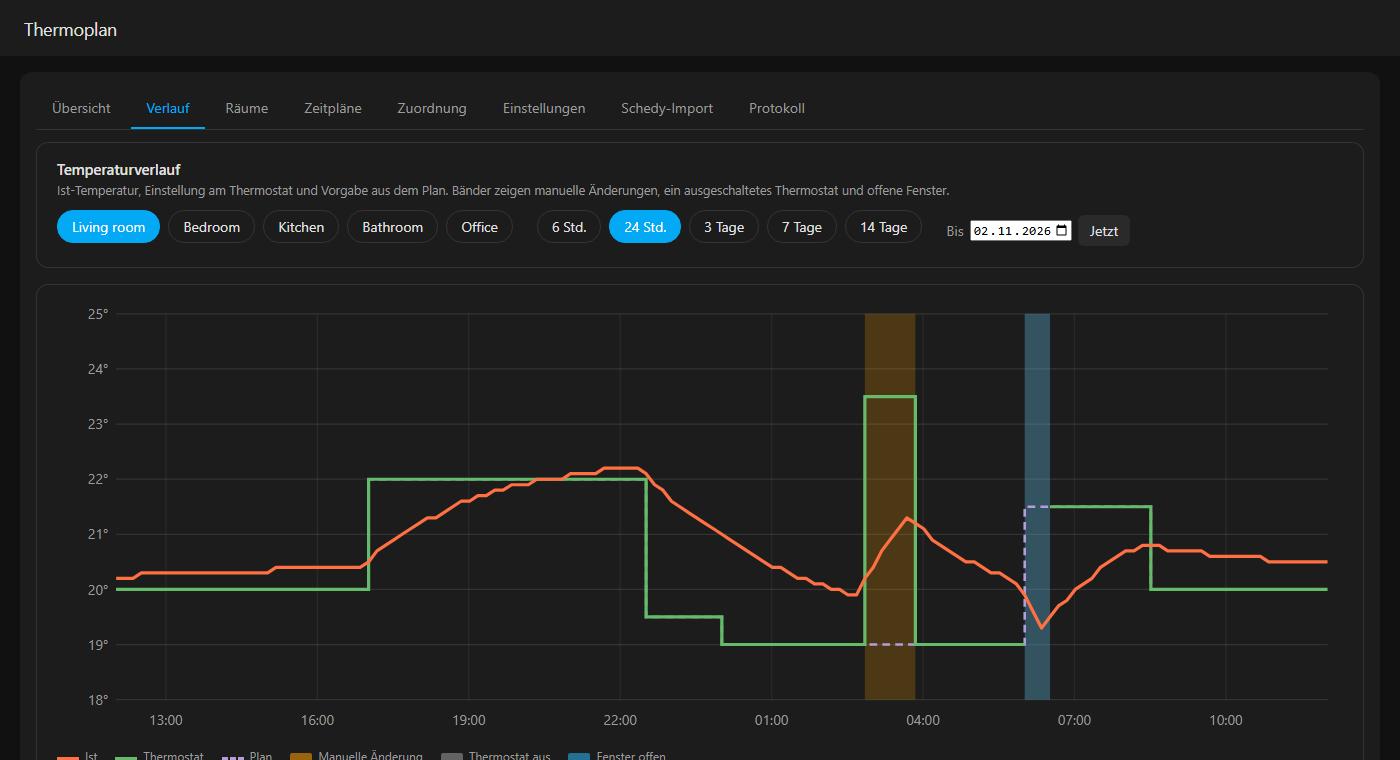
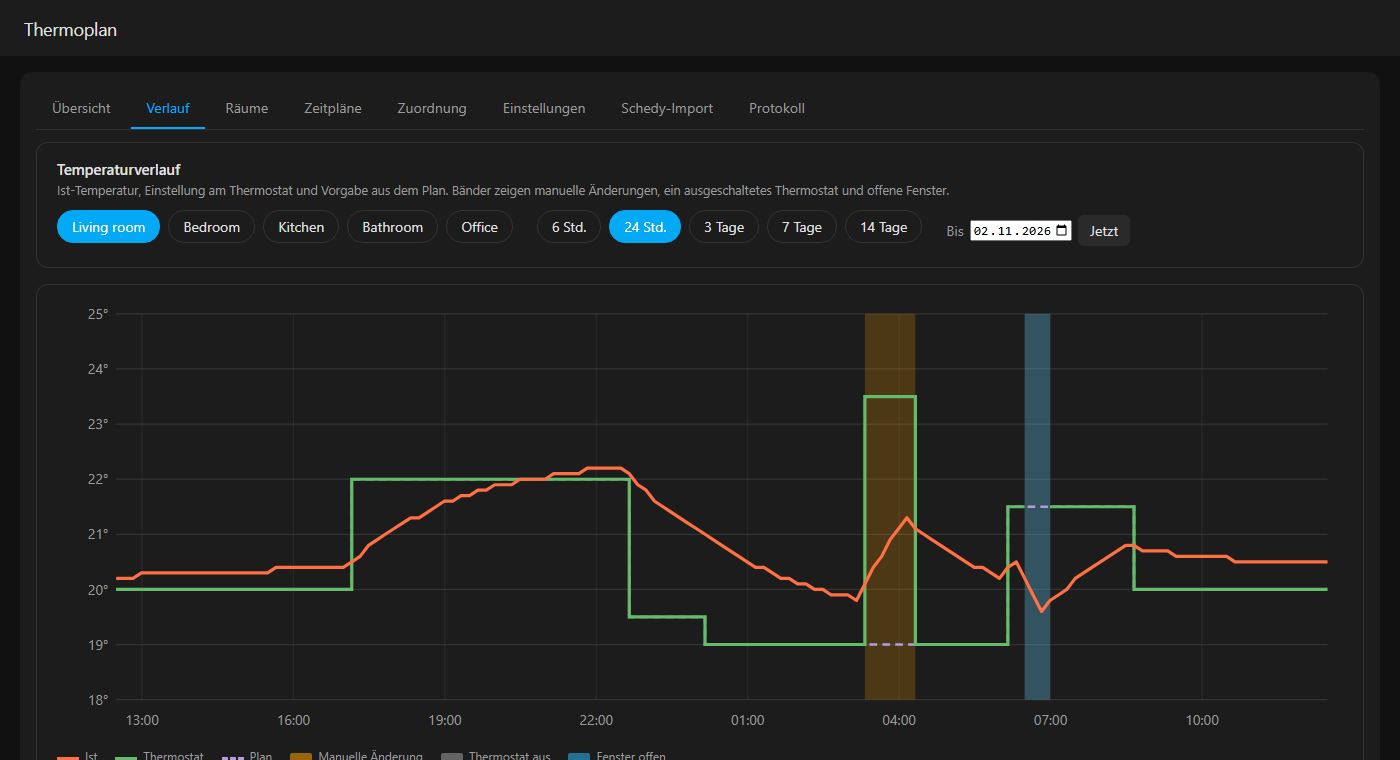
Table time edits trim overlapped neighbours and block saving when a block is covered; log user edits; reload the log tab when opened

diff --git a/custom_components/thermoplan/frontend/thermoplan-schedule-editor.js b/custom_components/thermoplan/frontend/thermoplan-schedule-editor.js
@@ -14,7 +14,7 @@ addStrings(
     se_time_hint: "Type times as 7, 7:30 or 0730. An end at or before the start means the next day (22:00 to 01:00); 00:00 as end means midnight.",
     se_copy_to: "Copy this day to", se_copy: "Copy", se_weekdays: "Mon-Fri", se_all_days: "All days",
     se_valid: "Schedule is valid.", se_problems: "Problems", se_no_free: "has no free time left for another block.",
-    se_invalid: "invalid block", se_overlap: "overlap", se_no_blocks: "No blocks on this day.",
+    se_invalid: "empty or covered by another block", se_overlap: "overlap", se_no_blocks: "No blocks on this day.",
     se_add_on: "Add a block on", se_continues: "Continues from", se_until: "until", se_ext: "Drag to continue the block past midnight",
     se_spill_hint: "Drag to move, drag the right edge to change the end.",
   },
@@ -27,7 +27,7 @@ addStrings(
     se_time_hint: "Zeiten als 7, 7:30 oder 0730 eingeben. Ein Ende zur oder vor der Startzeit bedeutet den nächsten Tag (22:00 bis 01:00); 00:00 als Ende bedeutet Mitternacht.",
     se_copy_to: "Diesen Tag kopieren nach", se_copy: "Kopieren", se_weekdays: "Mo-Fr", se_all_days: "Alle Tage",
     se_valid: "Zeitplan ist gültig.", se_problems: "Probleme", se_no_free: "hat keine freie Zeit mehr für einen weiteren Block.",
-    se_invalid: "ungültiger Block", se_overlap: "überschneiden sich", se_no_blocks: "Keine Blöcke an diesem Tag.",
+    se_invalid: "leer oder von einem anderen Block verdeckt", se_overlap: "überschneiden sich", se_no_blocks: "Keine Blöcke an diesem Tag.",
     se_add_on: "Block hinzufügen am", se_continues: "Fortsetzung von", se_until: "bis", se_ext: "Ziehen, um den Block über Mitternacht zu verlängern",
     se_spill_hint: "Ziehen zum Verschieben, am rechten Rand ziehen zum Ändern des Endes.",
   },
@@ -78,6 +78,8 @@ export const SCHEDULE_STYLE = `
   .se-rows .sw { width: 18px; height: 18px; border-radius: 4px; cursor: pointer; }
   .se-rows .sw.sel-row { outline: 2px solid var(--primary-text-color); outline-offset: 2px; }
   .se-rows input.time { width: 72px; text-align: center; }
+  .se-rows input.time.bad { border-color: var(--error-color, #d32f2f); color: var(--error-color, #d32f2f); }
+  .se-rows .sw.bad { outline: 2px solid var(--error-color, #d32f2f); outline-offset: 2px; }
   .se-badge { font-size: 11px; background: var(--primary-color); color: var(--text-primary-color, #fff); border-radius: 10px; padding: 1px 7px; margin-left: 6px; }
   .se-status { margin-top: 8px; font-size: 13px; }
   .se-status.err { color: var(--error-color, #d32f2f); } .se-status.good { color: var(--success-color, #2e7d32); }
@@ -137,7 +139,7 @@ function problems(ed) {
   for (let d = 0; d < 7; d++) {
     blocks(ed, d).forEach((b, i) => {
       const invalid = b[0] < 0 || b[0] >= DAY || b[1] <= b[0] || b[1] > 2 * DAY || b[1] - b[0] > DAY;
-      if (invalid) iv.push({ d, i, invalid: true, s: 0, e: 0 });
+      if (invalid) iv.push({ d, i, invalid: true, b, s: 0, e: 0 });
       else {
         const s = d * DAY + b[0], e = d * DAY + b[1], W = 7 * DAY;
         if (e > W) { iv.push({ d, i, s, e: W }); iv.push({ d, i, s: 0, e: e - W }); } else iv.push({ d, i, s, e });
@@ -145,7 +147,7 @@ function problems(ed) {
     });
   }
   const bad = new Set(), msgs = [];
-  iv.filter((x) => x.invalid).forEach((x) => { bad.add(x.d + ":" + x.i); msgs.push(`${days[x.d]}: ${T("se_invalid")}`); });
+  iv.filter((x) => x.invalid).forEach((x) => { bad.add(x.d + ":" + x.i); msgs.push(`${days[x.d]} ${fmt(x.b[0])}-${fmt(x.b[1])}: ${T("se_invalid")}`); });
   const ok = iv.filter((x) => !x.invalid).sort((a, b) => a.s - b.s);
   for (let k = 1; k < ok.length; k++) {
     if (ok[k].s < ok[k - 1].e && !(ok[k].d === ok[k - 1].d && ok[k].i === ok[k - 1].i)) {
@@ -266,14 +268,18 @@ function paint(ed) {
   // --- day table + copy ---
   const rows = h("div", { class: "se-rows" },
     ...["", T("se_from"), T("se_to"), "°C", T("se_off"), ""].map((t) => h("div", { class: "head" }, t)));
+  const badRows = bad; // blocks flagged by problems() (empty, covered or overlapping)
   blocks(ed, ed.curDay).forEach((b, i) => {
     const isSel = ed.sel && ed.sel.day === ed.curDay && ed.sel.idx === i;
-    const sw = h("div", { class: "sw" + (isSel ? " sel-row" : ""), style: `background:${color(b[2])}`, onclick: () => { ed.sel = { day: ed.curDay, idx: i }; paint(ed); } });
+    const sw = h("div", { class: "sw" + (isSel ? " sel-row" : "") + (badRows.has(ed.curDay + ":" + i) ? " bad" : ""), style: `background:${color(b[2])}`, onclick: () => { ed.sel = { day: ed.curDay, idx: i }; paint(ed); } });
     const from = timeInput(ed, fmt(b[0]), (m) => {
       if (m === null || m >= DAY) return false;
-      const len = b[1] - b[0]; checkpoint(ed); b[0] = m; if (b[1] <= b[0]) b[1] = Math.min(m + len, 2 * DAY); commit(ed); return true;
-    });
-    const to = timeInput(ed, fmt(b[1] >= DAY ? b[1] - DAY : b[1]), (m) => { if (m === null) return false; checkpoint(ed); b[1] = endOf(b[0], m); commit(ed); return true; });
+      const len = b[1] - b[0]; checkpoint(ed); b[0] = m; if (b[1] <= b[0]) b[1] = Math.min(m + len, 2 * DAY);
+      carve(ed, ed.curDay, b); commitKeep(ed, b); return true;
+    }, badRows.has(ed.curDay + ":" + i));
+    const to = timeInput(ed, fmt(b[1] >= DAY ? b[1] - DAY : b[1]), (m) => {
+      if (m === null) return false; checkpoint(ed); b[1] = endOf(b[0], m); carve(ed, ed.curDay, b); commitKeep(ed, b); return true;
+    }, badRows.has(ed.curDay + ":" + i));
     const toWrap = h("div", {}, to, b[1] >= DAY ? h("span", { class: "se-badge" }, T("se_plus1")) : null);
     const temp = h("input", { type: "number", step: 0.5, min: 4, max: 35, value: b[2] === null ? "" : b[2], disabled: b[2] === null,
       onchange: (ev) => { checkpoint(ed); b[2] = Number(ev.target.value); commit(ed); } });
@@ -298,8 +304,35 @@ function paint(ed) {
   positionPop(ed);
 }
 
-function timeInput(ed, value, apply) {
-  const i = h("input", { type: "text", class: "time", value });
+// Make room for block ``b`` (on day ``d``) by trimming, splitting or emptying the blocks it now overlaps,
+// including blocks of the neighbouring days that run over midnight. A block that is covered completely
+// ends up empty (start = end); it is flagged as an error and blocks saving until the user fixes it.
+function carve(ed, d, b) {
+  const bs = b[0], be = b[1];
+  for (const [dd, offset] of [[d, 0], [(d + 6) % 7, -DAY], [(d + 1) % 7, DAY]]) {
+    const list = blocks(ed, dd);
+    for (const x of [...list]) {
+      if (x === b) continue;
+      const xa = x[0] + offset, xe = x[1] + offset;
+      if (!(xa < be && xe > bs)) continue;                       // no overlap
+      if (xa < bs && xe > be) {                                  // b lies inside x
+        if (dd === d) { list.push([be - offset, x[1], x[2]]); x[1] = bs - offset; } else x[1] = bs - offset;
+      } else if (xa <= bs && xe > be) x[0] = be - offset;        // x starts with b and runs on
+      else if (xa < bs) x[1] = bs - offset;                      // x starts before b
+      else if (xe > be) x[0] = be - offset;                      // x starts inside b and runs past it
+      else x[1] = x[0];                                          // x is covered completely
+    }
+  }
+}
+function commitKeep(ed, b) {
+  for (const d of Object.keys(ed.draft.days)) ed.draft.days[d].sort((x, y) => x[0] - y[0]);
+  ed.sel = { day: ed.curDay, idx: blocks(ed, ed.curDay).indexOf(b) };
+  paint(ed);
+}
+export function draftProblems(draft, T) { return problems({ draft, T }).msgs; }
+
+function timeInput(ed, value, apply, bad = false) {
+  const i = h("input", { type: "text", class: "time" + (bad ? " bad" : ""), value });
   i.onchange = () => { if (!apply(parseTime(i.value))) { i.style.borderColor = "var(--error-color, #d32f2f)"; setTimeout(() => paint(ed), 600); } };
   return i;
 }

diff --git a/prototypes/schedule-editor.html b/prototypes/schedule-editor.html
@@ -386,9 +386,9 @@ function renderRows() {
     const isSel = sel && sel.day === curDay && sel.idx === i;
     const sw = document.createElement("div"); sw.className = "sw" + (isSel ? " sel-row" : ""); sw.style.background = color(b[2]);
     sw.onclick = () => { sel = { day: curDay, idx: i }; render(); };
-    const from = timeInput(fmt(b[0]), (m) => { if (m === null || m >= DAY) return false; const len = b[1] - b[0]; checkpoint(); b[0] = m; if (b[1] <= b[0]) b[1] = Math.min(m + len, 2 * DAY); commit(); return true; });
+    const from = timeInput(fmt(b[0]), (m) => { if (m === null || m >= DAY) return false; const len = b[1] - b[0]; checkpoint(); b[0] = m; if (b[1] <= b[0]) b[1] = Math.min(m + len, 2 * DAY); carve(curDay, b); commit(); return true; });
     const toWrap = document.createElement("div");
-    const to = timeInput(fmt(b[1] >= DAY ? b[1] - DAY : b[1]), (m) => { if (m === null) return false; checkpoint(); b[1] = endOf(b[0], m); commit(); return true; });
+    const to = timeInput(fmt(b[1] >= DAY ? b[1] - DAY : b[1]), (m) => { if (m === null) return false; checkpoint(); b[1] = endOf(b[0], m); carve(curDay, b); commit(); return true; });
     toWrap.appendChild(to);
     if (b[1] >= DAY) { const bd = document.createElement("span"); bd.className = "badge"; bd.textContent = "+1 day"; toWrap.appendChild(bd); }
     const temp = document.createElement("input"); temp.type = "number"; temp.step = 0.5; temp.min = 4; temp.max = 35;
@@ -402,6 +402,25 @@ function renderRows() {
   });
   if (!blocks(curDay).length) { const e = document.createElement("div"); e.style.gridColumn = "1 / -1"; e.className = "hint"; e.textContent = "No blocks on this day."; rows.appendChild(e); }
 }
+// Typing a time in the table makes room for the block: overlapped neighbours are trimmed or split, a block that
+// is covered completely ends up empty (start = end) and is flagged as an error.
+function carve(d, b) {
+  const bs = b[0], be = b[1];
+  for (const [dd, offset] of [[d, 0], [(d + 6) % 7, -DAY], [(d + 1) % 7, DAY]]) {
+    const list = blocks(dd);
+    for (const x of [...list]) {
+      if (x === b) continue;
+      const xa = x[0] + offset, xe = x[1] + offset;
+      if (!(xa < be && xe > bs)) continue;
+      if (xa < bs && xe > be) { if (dd === d) { list.push([be - offset, x[1], x[2]]); x[1] = bs - offset; } else x[1] = bs - offset; }
+      else if (xa <= bs && xe > be) x[0] = be - offset;
+      else if (xa < bs) x[1] = bs - offset;
+      else if (xe > be) x[0] = be - offset;
+      else x[1] = x[0];
+    }
+  }
+}
+
 function timeInput(value, apply) {
   const i = document.createElement("input"); i.className = "time"; i.value = value;
   i.onchange = () => { if (!apply(parseTime(i.value))) { i.style.borderColor = "var(--danger)"; setTimeout(render, 600); } };

diff --git a/custom_components/thermoplan/frontend/thermoplan-editor.js b/custom_components/thermoplan/frontend/thermoplan-editor.js
@@ -4,7 +4,7 @@ import { renderSettings, renderImport, SETTINGS_STYLE } from "./thermoplan-setti
 import { renderRooms } from "./thermoplan-rooms.js";
 import { renderLog, LOG_STYLE } from "./thermoplan-log.js";
 import { renderHistory, HISTORY_STYLE } from "./thermoplan-history.js";
-import { renderScheduleEditor, SCHEDULE_STYLE } from "./thermoplan-schedule-editor.js";
+import { renderScheduleEditor, draftProblems, SCHEDULE_STYLE } from "./thermoplan-schedule-editor.js";
 
 addStrings(
   {
@@ -183,6 +183,8 @@ export function mountEditor(root, getHass) {
     const draft = state.draft;
     const name = (draft.name || "").trim();
     if (!name) { state.message = T("name"); state.error = true; render(); return; }
+    const problems = draftProblems(draft, T);
+    if (problems.length) { state.message = problems.join("; "); state.error = true; render(); return; } // never save a broken schedule
     const days = {};
     for (const [day, blocks] of Object.entries(draft.days)) {
       if (blocks.length) days[day] = blocks.map(([s, e, t]) => [s, e, t]);
@@ -274,7 +276,8 @@ export function mountEditor(root, getHass) {
   }
 
   return {
-    setTab(tab) { state.tab = tab; state.message = null; if (state.data) render(); else load(); },
+    setTab(tab) { state.tab = tab; state.message = null; if (tab === "log") state.logLoaded = false; // always show fresh events
+      if (state.data) render(); else load(); },
     load,
     update() { /* data is pulled explicitly; hass updates do not re-render the editor */ },
   };

diff --git a/custom_components/thermoplan/controller.py b/custom_components/thermoplan/controller.py
@@ -258,6 +258,7 @@ class Controller:
         self, profiles: list[str], renames: dict[str, str] | None = None
     ) -> None:
         """Replace the profile list; ``renames`` (old -> new) keeps plans, rules and selection."""
+        self.log("Profiles changed: " + ", ".join(profiles) + (f" (renamed: {renames})" if renames else ""))
         data = self.data
         for old, new in (renames or {}).items():
             for plan in data.room_plans.values():
@@ -282,11 +283,13 @@ class Controller:
         await self._save_and_reload()
 
     async def async_set_schedule(self, schedule: Schedule) -> None:
+        self.log(f"Schedule '{schedule.name}' saved")
         self.data.schedules[schedule.name] = schedule
         await self._store.async_save(self.data)
         await self.async_evaluate()
 
     async def async_delete_schedule(self, name: str) -> None:
+        self.log(f"Schedule '{name}' deleted")
         self.data.schedules.pop(name, None)
         for plan in self.data.room_plans.values():
             for profile in [p for p, sched in plan.items() if sched == name]:
@@ -295,16 +298,19 @@ class Controller:
         await self.async_evaluate()
 
     async def async_set_room_plan(self, room_id: str, plan: dict[str, str]) -> None:
+        self.log("Plan changed: " + (", ".join(f"{p} = {s}" for p, s in plan.items()) or "empty"), self.rooms[room_id].name if room_id in self.rooms else None)
         self.data.room_plans[room_id] = plan
         await self._store.async_save(self.data)
         await self.async_evaluate()
 
     async def async_set_settings(self, settings: Settings) -> None:
+        self.log("Settings changed")
         self.data.settings = settings
         await self._save_and_reload()
 
     async def async_save_room(self, room_id: str | None, name: str, data: dict) -> str:
         """Create or update a room (a config subentry); the entry reloads afterwards."""
+        self.log(f"Room '{name}' {'updated' if room_id else 'created'}")
         if room_id:
             self.hass.config_entries.async_update_subentry(
                 self.entry,
@@ -320,6 +326,7 @@ class Controller:
         return subentry.subentry_id
 
     async def async_delete_room(self, room_id: str) -> None:
+        self.log(f"Room '{self.rooms[room_id].name if room_id in self.rooms else room_id}' deleted")
         self.data.room_plans.pop(room_id, None)
         await self._store.async_save(self.data)
         self.hass.config_entries.async_remove_subentry(self.entry, room_id)
